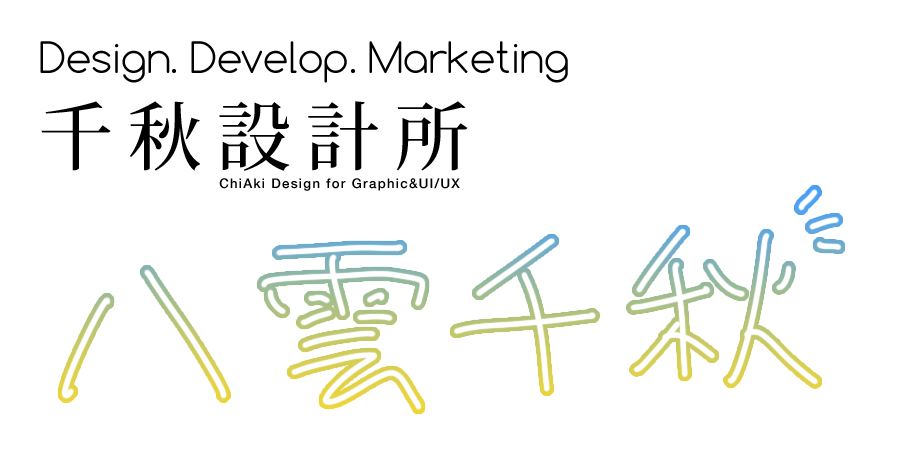
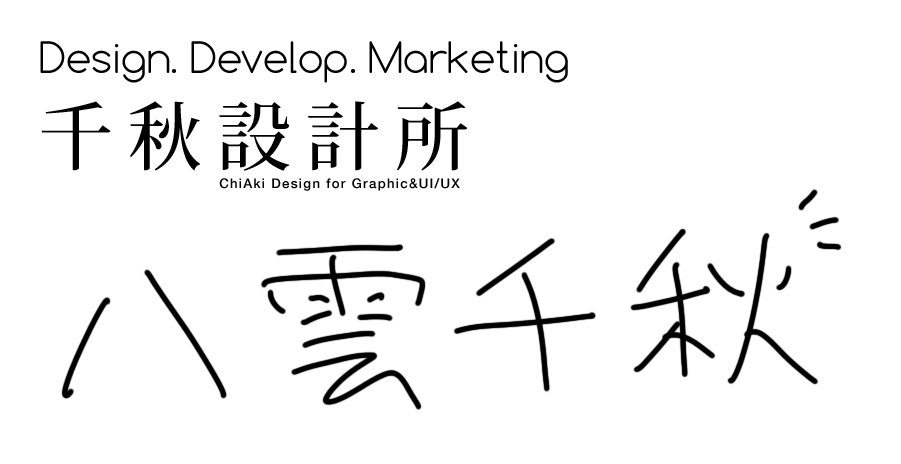
Detect from plurk

diff --git a/index.html b/index.html
@@ -24,6 +24,12 @@
 
     <link rel="stylesheet" type="text/css" href="https://cdnjs.cloudflare.com/ajax/libs/normalize/4.2.0/normalize.min.css">
     <link rel="stylesheet" type="text/css" href="style.css">
+    <script>
+        var ref = document.referrer
+        if (ref.match(/^https?:\/\/([^\/]+\.)?plurk\.com(\/|$)/i)) {
+            document.getElementById('webtitle').src = 'img/webtitle_plurk.png'
+        }
+    </script>
 </head>
 
 <body>
@@ -39,7 +45,7 @@
         <div id="cover">
             <img id="cover-img" src="img/head.png">
             <div id="cover-text" style="margin-top:70px;">
-                <img class="needfade" src="img/webtitle.png" alt="千秋">
+                <img id="webtitle" class="needfade" src="img/webtitle.png" alt="千秋">
             </div>
         </div>
 
